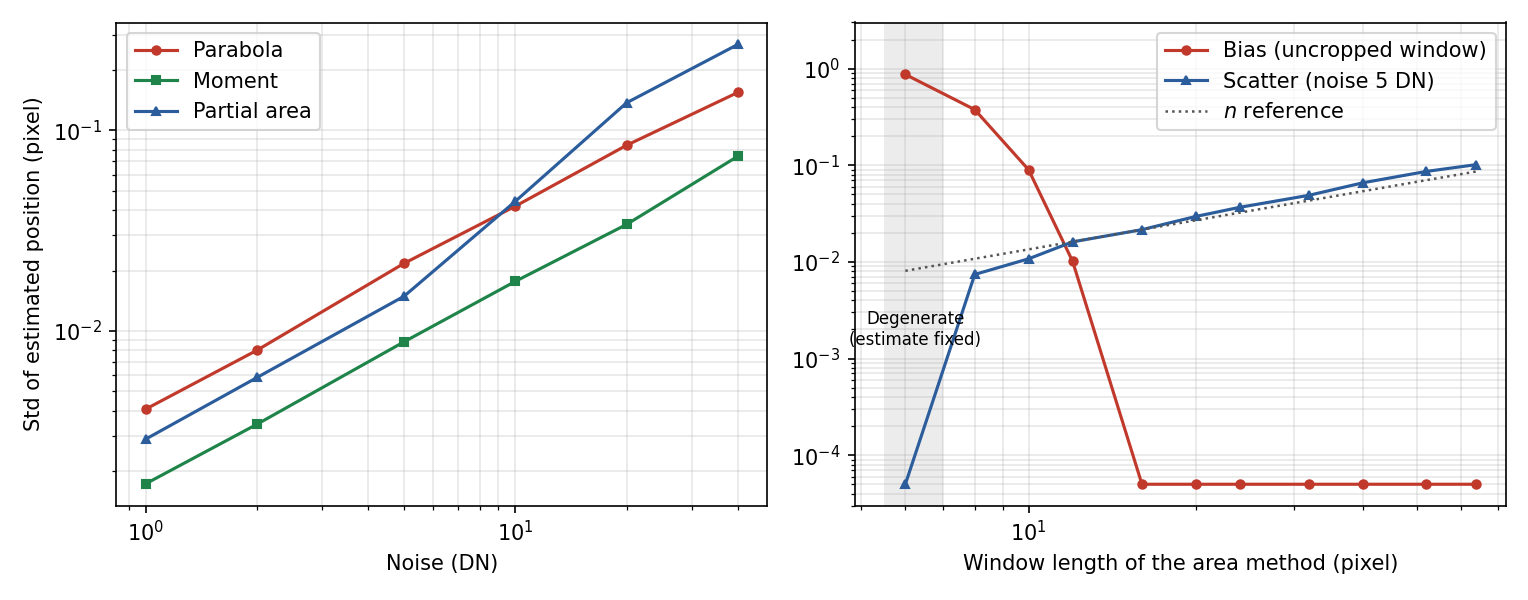
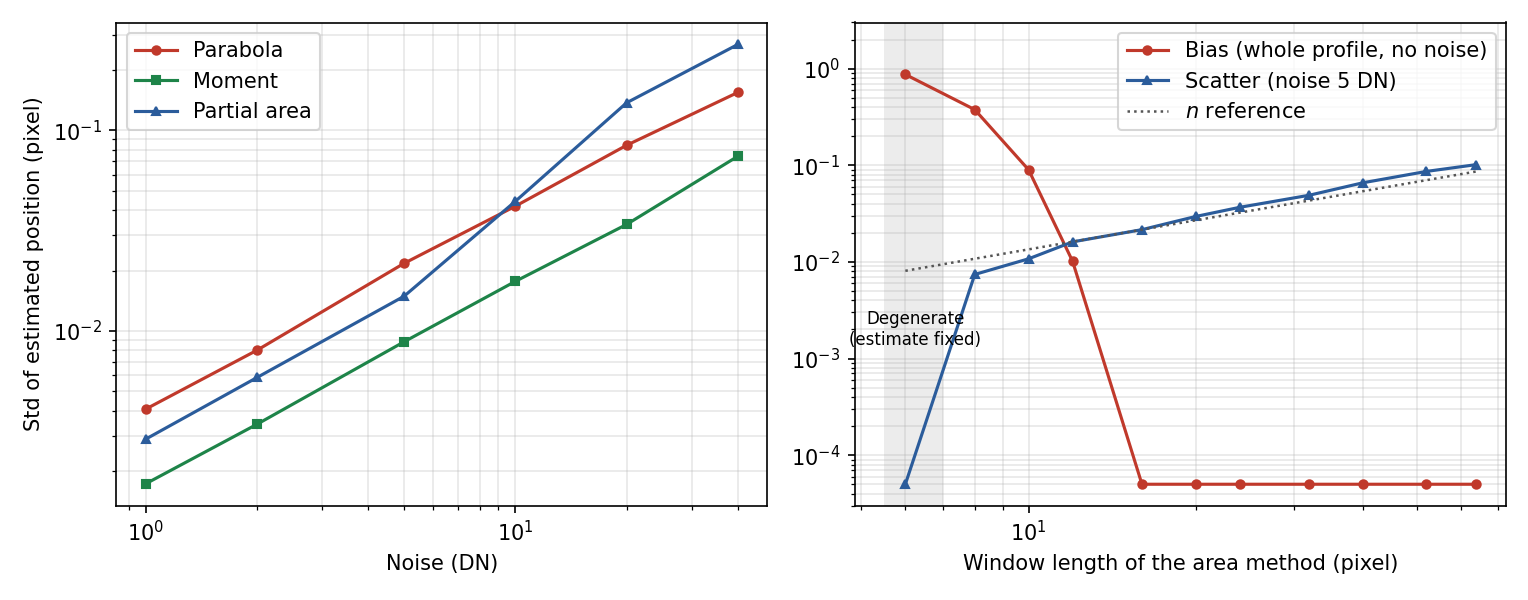
fix(post): imgproc-edge-subpixel — 점검 반영: 번역체·근거·그림, 그림 다시 생성
tech-writing-style 점검(2026-10-15) 반영:
- 번역체·어색한 문장 다듬기 (한·영)
- 그림·표와 맞지 않던 본문·캡션 서술 정정, 근거보다 넓던 결론을 실험 조건으로 한정
- 그림을 다시 그려야 하는 경미 항목은 따로 처리 예정
근거: _references/imgproc-edge-subpixel/audit-20261015.md (git 제외)

Changed region(s): [[0.7382, 0.06, 0.9843, 0.21]]

diff --git a/_code/imgproc-edge-subpixel/generate_figures.py b/_code/imgproc-edge-subpixel/generate_figures.py
@@ -37,7 +37,7 @@ LABELS = {
         "blur_ax": r"PSF 흐림 폭 $w$ (화소)", "maxbias": "최대 절대 편향 (화소)",
         "w10": "10-90% 엣지 폭 (화소)",
         "noise_ax": "노이즈 (DN)", "scatter": "추정 위치 표준편차 (화소)",
-        "winlen": "면적법의 창 길이 (화소)", "wb": "편향 (창을 자르지 않았을 때)",
+        "winlen": "면적법의 창 길이 (화소)", "wb": "편향 (단면 전체 사용, 노이즈 없음)",
         "ws": r"산포 (노이즈 5 DN)", "nref": r"$n$ 기준선",
         "degen": "퇴화 구간\n(추정값 고정)", "nz_title": "노이즈 {:.0f} DN",
         "rmse": "총 오차 RMSE (화소)", "winner": "가장 작은 총 오차를 내는 방법",
@@ -53,7 +53,7 @@ LABELS = {
         "blur_ax": r"PSF blur width $w$ (pixel)", "maxbias": "Max absolute bias (pixel)",
         "w10": "10-90% edge width (pixel)",
         "noise_ax": "Noise (DN)", "scatter": "Std of estimated position (pixel)",
-        "winlen": "Window length of the area method (pixel)", "wb": "Bias (uncropped window)",
+        "winlen": "Window length of the area method (pixel)", "wb": "Bias (whole profile, no noise)",
         "ws": r"Scatter (noise 5 DN)", "nref": r"$n$ reference",
         "degen": "Degenerate\n(estimate fixed)", "nz_title": "Noise {:.0f} DN",
         "rmse": "Total error RMSE (pixel)", "winner": "Method with the smallest total error",

diff --git a/_posts/2026-10-20-imgproc-edge-subpixel-en.md b/_posts/2026-10-20-imgproc-edge-subpixel-en.md
@@ -47,13 +47,13 @@ The moment family inverts the first three moments of the intensity within a wind
 
 $$ p = \frac{1}{2}\left(1 + s\sqrt{\frac{1}{4 + s^2}}\right), \qquad s = \frac{m_3 - 3m_1 m_2 + 2m_1^3}{\sigma^3} $$
 
-Here $m_k$ is the $k$-th moment of the intensities in the window, $\sigma^2 = m_2 - m_1^2$, and $s$ is the skewness. The intuition lies in the intensity histogram. An ideal step leaves only two values in the window, dark and bright. The more dark pixels there are, the longer the histogram's tail towards the bright side, and the skewness measures that lean. The lean gives the dark fraction $p$, and $p$ times the window length is the edge position. When $s = 0$, $p = 1/2$ and the edge sits at the centre of the window.
+Here $m_k$ is the $k$-th moment of the intensities in the window, $\sigma^2 = m_2 - m_1^2$, and $s$ is the skewness. The intuition lies in the intensity histogram. An ideal step leaves only two values in the window, dark and bright. The more dark pixels there are, the longer the histogram's tail towards the bright side, and the skewness measures that lean. The lean gives the dark fraction $p$, and $p$ times the window length is the distance from the left end of the window to the edge. When $s = 0$, $p = 1/2$ and the edge sits at the centre of the window.
 
 The area family uses only the fact that a pixel value is the average of the light that pixel received. Taking the plateaus $A$ and $B$ and summing the normalized profile $(A - v)/(A - B)$ across the window gives the distance from the left end of the window to the edge. As long as the blur is symmetric about the edge, neither its shape nor its width needs to be assumed.
 
 The area method amounts to counting dark pixels. A fully dark pixel counts as one, a half-dark pixel as one half. With symmetric blur, the darkness spilled to the right of the edge exactly cancels the brightness spilled to the left, so the count is the distance to the edge.
 
-Fig 3 shows what each family reads from the same profile. On the left, the vertex of the parabola through the three gradient samples lies 0.028 pixels left of the true position (dotted line). In the centre, the step recovered by the moments rises almost exactly at the true position. For this profile $s = -0.022$ and $p = 0.495$, so the edge lies slightly left of the window centre (11.5). On the right, the first nine pixels are almost fully dark (summing to 9.00), and the following ones (0.99, 0.91, 0.64, 0.27, 0.06, …) add 2.87, so the cumulative sum stops at 11.87. The window's left end is at −0.5, which puts the edge at 11.37, the true position.
+Fig 3 shows what each family reads from the same profile. On the left, the vertex of the parabola through the three gradient samples lies 0.028 pixels left of the true position (dotted line). In the centre, the step recovered by the moments is drawn per pixel, so it rises at the pixel boundary (11.5), 0.13 pixels from the true position (11.37). For this profile $s = -0.022$ and $p = 0.495$, so the edge lies slightly left of the window centre (11.5). On the right, the first nine pixels are almost fully dark (summing to 9.00), and the following ones (0.99, 0.91, 0.64, 0.27, 0.06, …) add 2.87, so the cumulative sum stops at 11.87. The window's left end is at −0.5, which puts the edge at 11.37, the true position.
 
 <img src="/assets/img/posts/imgproc-edge-subpixel/en/fig2-three-families.png" alt="What the parabola, moment and area methods read from the same profile" width="750">
 _Fig 3. What the three families read from the profile of Fig 2 (w=1.0, true position 11.37). Left: a parabola fitted to three gradient-magnitude samples. Centre: the two-level step recovered from the intensity moments. Right: the normalized profile (bars) and its cumulative sum (line). The dotted line is the true position, and the final value of the cumulative sum, 11.87, is the distance from the window's left end (−0.5) to the edge._
@@ -80,7 +80,7 @@ Reading between the marks of a ruler by eye, one tends to drift towards the near
 
 The moment method also locks. At $w = 0.4$ its bias reaches $0.036$ pixels, comparable in size to the parabola but opposite in phase. The intermediate values produced by blur and pixel integration break its assumption of an ideal two-level step, and the way it breaks depends on the grid phase. It does fall away quickly as blur grows.
 
-The area curve lies almost flat at zero for $w = 0.4$ and $0.6$, since it assumes nothing beyond symmetry and is therefore indifferent to grid phase. Its swing of $\pm0.011$ pixels in the $w = 2.0$ panel comes from cropping the window to the transition region. Section 4 explains the cause and section 5 the price. The small steps visible in the curve mark where the window length changes by a whole pixel. An error that averaging cannot reduce thus remains, up to 4% of a pixel.
+The area curve lies almost flat at zero for $w = 0.4$ and $0.6$, since it assumes nothing beyond symmetry and is therefore indifferent to grid phase. Its swing of $\pm0.011$ pixels in the $w = 2.0$ panel comes from cropping the window to the transition region. Section 4 explains the cause and section 5 the price. The small steps visible in the curve mark where the window length changes by a whole pixel.
 
 ## 4. Is a sharper edge always better?
 
@@ -91,26 +91,26 @@ _Fig 5. Maximum absolute bias of the three methods against blur width w (no nois
 
 Parabolic interpolation is worst at $w = 0.6$ and improves in both directions. With a very sharp edge, pixel integration and the central difference make the three gradient samples shift linearly with the true position, so the vertex nearly coincides with it (zero bias as $w \to 0$). With enough blur the peak genuinely approaches a parabola and the assumption holds. The worst case lies between.
 
-The moment method traces the opposite shape, a U with its minimum of $0.0016$ pixels at $w = 0.8$. Too sharp, and pixel integration breaks the step assumption. Too blurred, and the tails of the transition reach both ends of the 24-pixel window, which clips them asymmetrically by as much as the edge sits off the window centre. With the edge exactly at the centre (11.5) this bias is zero. Widening the window to 48 pixels with the edge at its centre cuts the maximum bias at $w = 2.0$ from $0.0096$ to $0.0020$ pixels.
+The moment method traces the opposite shape, a U with its minimum of $0.0016$ pixels at $w = 0.8$. Too sharp, and pixel integration breaks the step assumption. Too blurred, and the tails of the transition reach both ends of the 24-pixel window, and the more the edge sits off the window centre, the more asymmetrically the window clips them. With the edge exactly at the centre (11.5) this bias is zero. Widening the window to 48 pixels with the edge at its centre cuts the maximum bias at $w = 2.0$ from $0.0096$ to $0.0020$ pixels.
 
 The area method stays below $10^{-3}$ pixels for $w \le 0.6$, but its bias grows with blur and reaches $0.011$ pixels at $w = 2.0$. This is not the symmetry assumption failing. It comes from cropping the window to the transition: with the window uncropped, the bias at the same $w = 2.0$ stays at $0.00002$ pixels. As blur grows, the tails of the transition lengthen. If the ends of the cropped window have not reached the plateaus, the $A$ and $B$ taken there are off by that much.
 
-A practical rule follows for the moment method: capturing the sharpest possible edge is not the best move. Matching the optics and the pixel spacing so that the 10-90% edge width lands at 2 to 3 pixels serves better. Section 6 of Post 1 argued for enough blur to keep content above Nyquist from folding down. The bias of the moment method points to the same answer. Parabolic interpolation, however, is worst near $w = 0.6$ and still leaves $0.025$ to $0.038$ pixels at a 2-to-3-pixel edge width, more than on sharper edges ($0.009$ pixels at $w = 0.2$). The blur width has to be chosen together with the method.
+A practical rule follows for the moment method: do not capture the sharpest edge possible. Matching the optics and the pixel spacing so that the 10-90% edge width lands at 2 to 3 pixels serves better. Section 6 of Post 1 argued for enough blur to keep content above Nyquist from folding down. The bias of the moment method points to the same answer. Parabolic interpolation, however, is worst near $w = 0.6$ and still leaves $0.025$ to $0.038$ pixels at a 2-to-3-pixel edge width, more than on sharper edges ($0.009$ pixels at $w = 0.2$). The blur width has to be chosen together with the method.
 
 ## 5. Is an unbiased method enough?
 
 If the area method is nearly exact and unbiased, it seems enough to use it alone. But none of the experiments so far contained noise. Here Gaussian noise is added to the profile (24 pixels, intensity 100 to 1300 DN, true position 11.37) and each estimate is repeated 600 times.
 
 <img src="/assets/img/posts/imgproc-edge-subpixel/en/fig5-noise-scatter.png" alt="Scatter of the three methods against noise, and the window-length dependence of the area method" width="750">
-_Fig 6. Left: standard deviation (scatter) of the estimated position at w=1.0 as noise rises from 1 to 40 DN, 600 trials each. Right: bias (no noise) and scatter (noise 5 DN, 400 trials) of the area method against window length. The grey band marks the degenerate 6-pixel window, where the 3+3 plateau pixels cover the whole window and the estimate is fixed regardless of noise. Values below 5×10⁻⁵ are drawn at that floor. The method with smaller bias has larger scatter, and the area window is a trade of its own._
+_Fig 6. Left: standard deviation (scatter) of the estimated position at w=1.0 as noise rises from 1 to 40 DN, 600 trials each. Right: bias (no noise) and scatter (noise 5 DN, 400 trials) of the area method against window length, with the whole profile used as the window. The dotted line is a reference proportional to the window length. The grey band marks the degenerate 6-pixel window, where the 3+3 plateau pixels cover the whole window and the estimate is fixed regardless of noise. Values below 5×10⁻⁵ are drawn at that floor. The method with smaller bias has larger scatter, and the area window is a trade of its own._
 
 The left panel is the scatter at $w = 1.0$ as noise increases. The ordering does not follow the bias ordering. The area method, which had the smallest bias at sharp blur ($w \le 0.6$), scatters more than the moment method here. At 5 DN the moment method is the most stable at $0.0088$ pixels, followed by the area method at $0.0149$ and the parabola at $0.0217$. Beyond 10 DN the area method scatters more than even the parabola ($0.0443$ against $0.0418$ at 10 DN, $0.137$ against $0.084$ at 20 DN).
 
 The reason lies in how many pixels each method uses and how. The moment method forms an average over the whole window, so noise averages down. The parabola uses three gradient samples, and section 4 of Post 2 showed that differentiation has already degraded their signal-to-noise ratio. The area method sums every pixel in the window and normalizes the sum by plateaus taken from a few end pixels, so the noise accumulates with the window length.
 
-The right panel shows that accumulation directly. The scatter of the area method grows faster than the square root of the window length $n$, nearly in proportion to $n$. From $0.0216$ at 16 pixels, where the bias has vanished, it rises to $0.1015$ at 64: four times the window, 4.7 times the scatter. The plateaus $A$ and $B$ are averages of three pixels at each end, so the noise in those averages enters every term of the sum. Shortening the window instead lets the transition overflow it, the plateaus are misjudged, and at 6 pixels the bias shoots up to $0.87$ pixels. The scatter there looks like zero, but not because the estimate is precise. The 3+3 plateau pixels cover the whole window and the estimate is stuck at 2.5. The practical window length is around 12 to 16 pixels, where the bias has vanished.
+The right panel shows that accumulation directly. The scatter of the area method grows faster than the square root of the window length $n$, nearly in proportion to $n$. From $0.0216$ at 16 pixels, where the bias has vanished, it rises to $0.1015$ at 64: four times the window, 4.7 times the scatter. The plateaus $A$ and $B$ are averages of three pixels at each end, so the noise in those averages enters every term of the sum. Shortening the window instead lets the transition overflow it, the plateaus are misjudged, and at 6 pixels the bias shoots up to $0.87$ pixels. The scatter there looks like zero, but not because the estimate is precise. The 3+3 plateau pixels cover the whole window and the estimate is stuck at 2.5. The practical window length is around 16 pixels, where the bias has vanished; even at 12 pixels the bias is a small $0.010$ pixels.
 
-The automatic window, which finds the transition and adds a 3-pixel margin, chose a length of 12 at $w = 1.0$ and more than halved the scatter relative to using the full profile. The automatic window can, however, be fooled by noise: once noise crosses the gradient threshold, the transition is taken to be wider. The mean window length stays at 12 pixels up to 5 DN, then grows to 14.5 pixels at 10 DN and 21 pixels at 20 DN. This is why the area curve in the left panel steepens between 10 and 20 DN.
+The automatic window, which finds the transition and adds a 3-pixel margin, chose a length of 12 at $w = 1.0$ and more than halved the scatter relative to using the full profile. The 12-pixel bias in the figure above ($0.010$ pixels) differs from the automatic window's bias in section 4 (about $0.003$ pixels) most likely because the windows are taken differently: the figure uses an entire 12-pixel profile as the window, whereas the automatic window cuts 12 pixels out of a longer profile, positioned by the transition. The automatic window can, however, be fooled by noise: once noise crosses the gradient threshold, the transition is taken to be wider. The mean window length stays at 12 pixels up to 5 DN, then grows to 14.5 pixels at 10 DN and 21 pixels at 20 DN. This is why the area curve in the left panel steepens between 10 and 20 DN.
 
 The price of that choice is the area-method bias seen in section 4. The automatic window grows with blur, but its 3-pixel margin does not, so the longer the tails of the transition, the further the plateau estimate drifts. Halving the scatter bought a bias of $0.011$ pixels at $w = 2.0$. Scaling the margin with blur width reduces the bias and brings the scatter back.
 
@@ -123,7 +123,7 @@ _Fig 7. Total error of the three methods, as root-mean-square error (RMSE), agai
 
 For $w \ge 0.8$, a 10-90% edge width beyond 2 pixels, the moment method wins at every noise level. Its bias is already down at the $0.002$ pixel level, leaving only scatter, and its scatter is the smallest of the three.
 
-Sharper edges reverse the order. At $w = 0.3$ to $0.5$ with low noise the area method wins, because this is the range where the moment method's step assumption breaks and its bias climbs to $0.06$ pixels, favouring the unbiased option. At the same $w = 0.3$ with higher noise the parabola wins instead. The area method's scatter grows faster than the noise (section 5), while the parabola keeps a small $0.02$ pixel bias on sharp edges and uses few samples.
+Sharper edges reverse the order. At $w = 0.3$ to $0.5$ with low noise the area method wins, because this is the range where the moment method's step assumption breaks and its bias climbs to $0.06$ pixels, favouring the unbiased option. At the same $w = 0.3$ with noise around 10 DN the parabola wins instead. The area method's scatter grows faster than the noise (section 5), while the parabola keeps a small $0.02$ pixel bias on sharp edges and uses few samples.
 
 With the edge width at 2 or 3 pixels, the moment method is the simple choice. In that regime the moment and area methods both come down to about $0.002$ pixels of bias. Only parabolic interpolation still leaves a grid bias of about $0.03$ pixels.
 
@@ -135,7 +135,7 @@ All three methods share one premise: exactly one edge inside the window. The fai
 
 Illumination tilted to one side leaves the plateaus non-flat, and the area method falls first. It takes $A$ and $B$ from the window ends, and if those values ride a gradient the normalization is wrong from the start. The background slope must be removed first, or the window shortened to limit its influence.
 
-Two edges inside one window derail all three. The parabola picks the taller peak. With two edges of the same direction, the moment and area methods return a value somewhere between them. With an opposite pair, as in a fine line or a narrow groove, the two plateaus coincide, the area method diverges and the moment method returns a value outside both edges. This arises often when measuring fine lines or narrow grooves, and it calls for a method that models the edge pair together. Fig 8 shows a profile across three fine bars in a real microscope image.
+Two edges inside one window derail all three. The parabola picks the taller peak. With two edges of the same direction, the moment and area methods return a value somewhere between them. With an opposite pair, as in a fine line or a narrow groove, the two plateaus coincide, the area method diverges and the moment method returns a value outside both edges. Such pairs are common in linewidth measurement, and they call for a method that models the edge pair together. Fig 8 shows a profile across three fine bars in a real microscope image.
 
 <img src="/assets/img/posts/imgproc-edge-subpixel/ext-foldscope-usaf-profile.png" alt="A resolution target imaged with a paper microscope, and an intensity profile across three fine bars" width="750">
 _Fig 8. A USAF 1951 resolution target imaged with a paper microscope (Foldscope) (left), an enlargement of part of it (centre), and the intensity profile along the green line in the enlargement (right). In the graph the green line (Data) is the measurement and the black line (Ideal) the ideal bar profile. The bars are so fine that edges of opposite direction sit close together, and the measured profile never climbs back to the plateau between bars. For a profile like this, the premise of a single edge in the window fails from the outset. (Source: Cybulski J, Clements J, Prakash M, [Foldscope: Origami-Based Paper Microscope](https://doi.org/10.1371/journal.pone.0098781), panels E and F of the paper's figure, [CC BY 4.0](https://creativecommons.org/licenses/by/4.0), cropped)_
